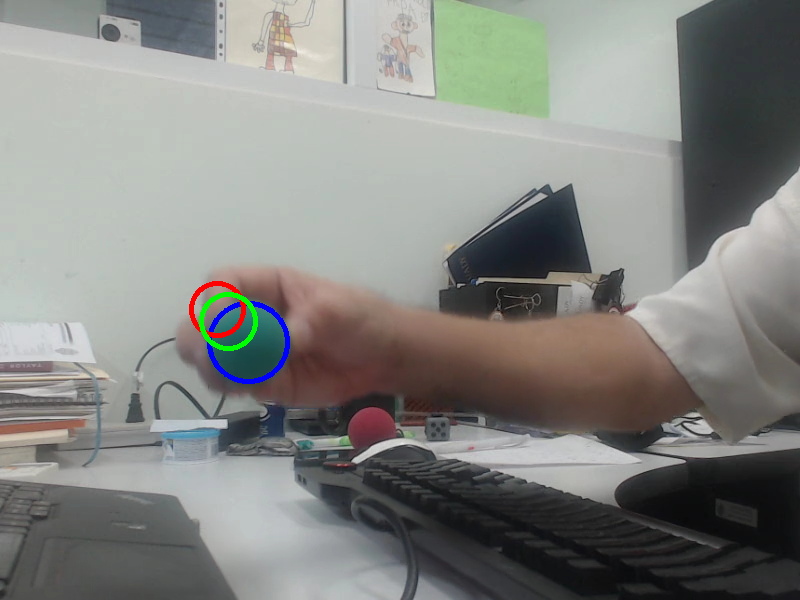
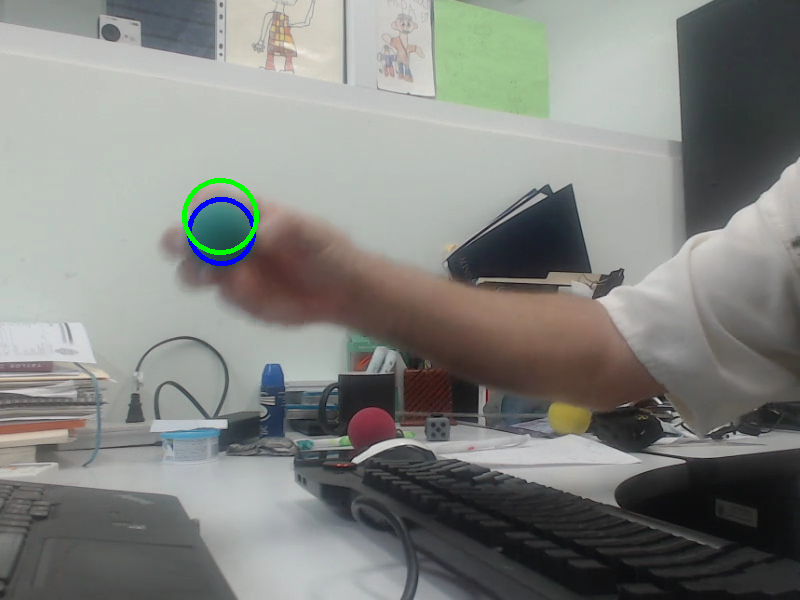
feat: created kalman filter inheritance

diff --git a/practice5-ball_tracking/practice5/lib/dayan/KalmanFilterExtended.h b/practice5-ball_tracking/practice5/lib/dayan/KalmanFilterExtended.h
@@ -7,42 +7,16 @@
 
 #include "opencv2/opencv.hpp"
 #include "tools.h"
+#include "KalmanFilter.h"
 
 namespace dayan
 {
 
-	class KalmanFilterExtended
+	class KalmanFilterExtended : public dayan::KalmanFilter
 	{
 	public:
-		// statePre
-		cv::Mat Xp; //!< predicted state (x'(k)): x(k)=A*x(k-1)+B*u(k)
-		// statePost
-		cv::Mat X; //!< corrected state (x(k)): x(k)=x'(k)+K(k)*(z(k)-H*x'(k))
-		// transitionMatrix
-		cv::Mat A; //!< state transition matrix (A)
-		// measurementMatrix
-		cv::Mat H;  //!< measurement matrix (H)
-		// processNoiseCov
-		cv::Mat Q; //!< process noise covariance matrix (Q)
-		// measurementNoiseCov
-		cv::Mat R; //!< measurement noise covariance matrix (R)
-		// errorCovPre
-		cv::Mat Pp;        //!< priori error estimate covariance matrix (P'(k)): P'(k)=A*P(k-1)*At + Q)*/
-		// gain
-		cv::Mat K; //!< Kalman gain matrix (K(k)): K(k)=P'(k)*Ht*inv(H*P'(k)*Ht+R)
-		// errorCovPost
-		cv::Mat P; //!< posteriori error estimate covariance matrix (P(k)): P(k)=(I-K(k)*H)*P'(k)
 
-		void predict()
-		{
-			Xp = A * X;
-			dayan::printMat(A, "A");
-			dayan::printMat(P, "P");
-			dayan::printMat(Q, "Q");
-			Pp = A * P * A.t() + Q;
-		}
-
-		void correct(const cv::Mat& Z)
+		void correct(const cv::Mat& Z) override
 		{
 			cv::Mat h;
 			dayan::getH(Xp, h, H);
@@ -54,12 +28,6 @@ namespace dayan
 			X = Xp + K * (Z - h);
 			cv::Mat I = cv::Mat::eye(6, 6, CV_32F);
 			P = (I - K * H) * Pp;
-		}
-
-		void predict_correct(const cv::Mat& Z)
-		{
-			predict();
-			correct(Z);
 		}
 	};
 

diff --git a/practice5-ball_tracking/practice5/lib/dayan/KalmanFilter.h b/practice5-ball_tracking/practice5/lib/dayan/KalmanFilter.h
@@ -1,0 +1,56 @@
+//
+// Created by dayan3847 on 13/11/23.
+//
+
+#ifndef KALMANFILTER_H
+#define KALMANFILTER_H
+
+#include "opencv2/opencv.hpp"
+#include "tools.h"
+
+namespace dayan
+{
+
+	class KalmanFilter
+	{
+	public:
+		// statePre
+		cv::Mat Xp; //!< predicted state (x'(k)): x(k)=A*x(k-1)+B*u(k)
+		// statePost
+		cv::Mat X; //!< corrected state (x(k)): x(k)=x'(k)+K(k)*(z(k)-H*x'(k))
+		// transitionMatrix
+		cv::Mat A; //!< state transition matrix (A)
+		// measurementMatrix
+		cv::Mat H;  //!< measurement matrix (H)
+		// processNoiseCov
+		cv::Mat Q; //!< process noise covariance matrix (Q)
+		// measurementNoiseCov
+		cv::Mat R; //!< measurement noise covariance matrix (R)
+		// errorCovPre
+		cv::Mat Pp; //!< priori error estimate covariance matrix (P'(k)): P'(k)=A*P(k-1)*At + Q)*/
+		// gain
+		cv::Mat K; //!< Kalman gain matrix (K(k)): K(k)=P'(k)*Ht*inv(H*P'(k)*Ht+R)
+		// errorCovPost
+		cv::Mat P; //!< posteriori error estimate covariance matrix (P(k)): P(k)=(I-K(k)*H)*P'(k)
+
+		void predict()
+		{
+			Xp = A * X;
+			Pp = A * P * A.t() + Q;
+		}
+
+		virtual void correct(const cv::Mat& Z)
+		{
+			// TODO: Implement
+		}
+
+		void predict_correct(const cv::Mat& Z)
+		{
+			this->predict();
+			this->correct(Z);
+		}
+	};
+
+} // dayan
+
+#endif //KALMANFILTER_H

diff --git a/practice5-ball_tracking/practice5/SegColorLab.cpp b/practice5-ball_tracking/practice5/SegColorLab.cpp
@@ -170,7 +170,7 @@ int main(int argc, char** argv)
 			std::cout << "\033[1;31m" << "No se encontro el circulo" << "\033[0m" << std::endl;
 			continue;
 		}
-		dayan::printMat(Z, "Z");
+		//dayan::printMat(Z, "Z");
 		//dayan::drawCircle(inputFrame, c);
 		dayan::drawCircleByZ(inputFrame, Z, cv::Scalar(255, 0, 0));
 
@@ -183,10 +183,10 @@ int main(int argc, char** argv)
 		else
 		{
 			kalmanFilter.predict_correct(Z);
-			dayan::printMat(kalmanFilter.Xp, "predicted");
-			dayan::printMat(kalmanFilter.X, "corrected");
+//			dayan::printMat(kalmanFilter.X, "corrected");
+//			dayan::printMat(kalmanFilter.Xp, "predicted");
 			// predicted color red
-			dayan::drawCircleByX(inputFrame, kalmanFilter.Xp, cv::Scalar(0, 0, 255));
+			//dayan::drawCircleByX(inputFrame, kalmanFilter.Xp, cv::Scalar(0, 0, 255));
 			// corrected color green
 			dayan::drawCircleByX(inputFrame, kalmanFilter.X, cv::Scalar(0, 255, 0));
 		}
